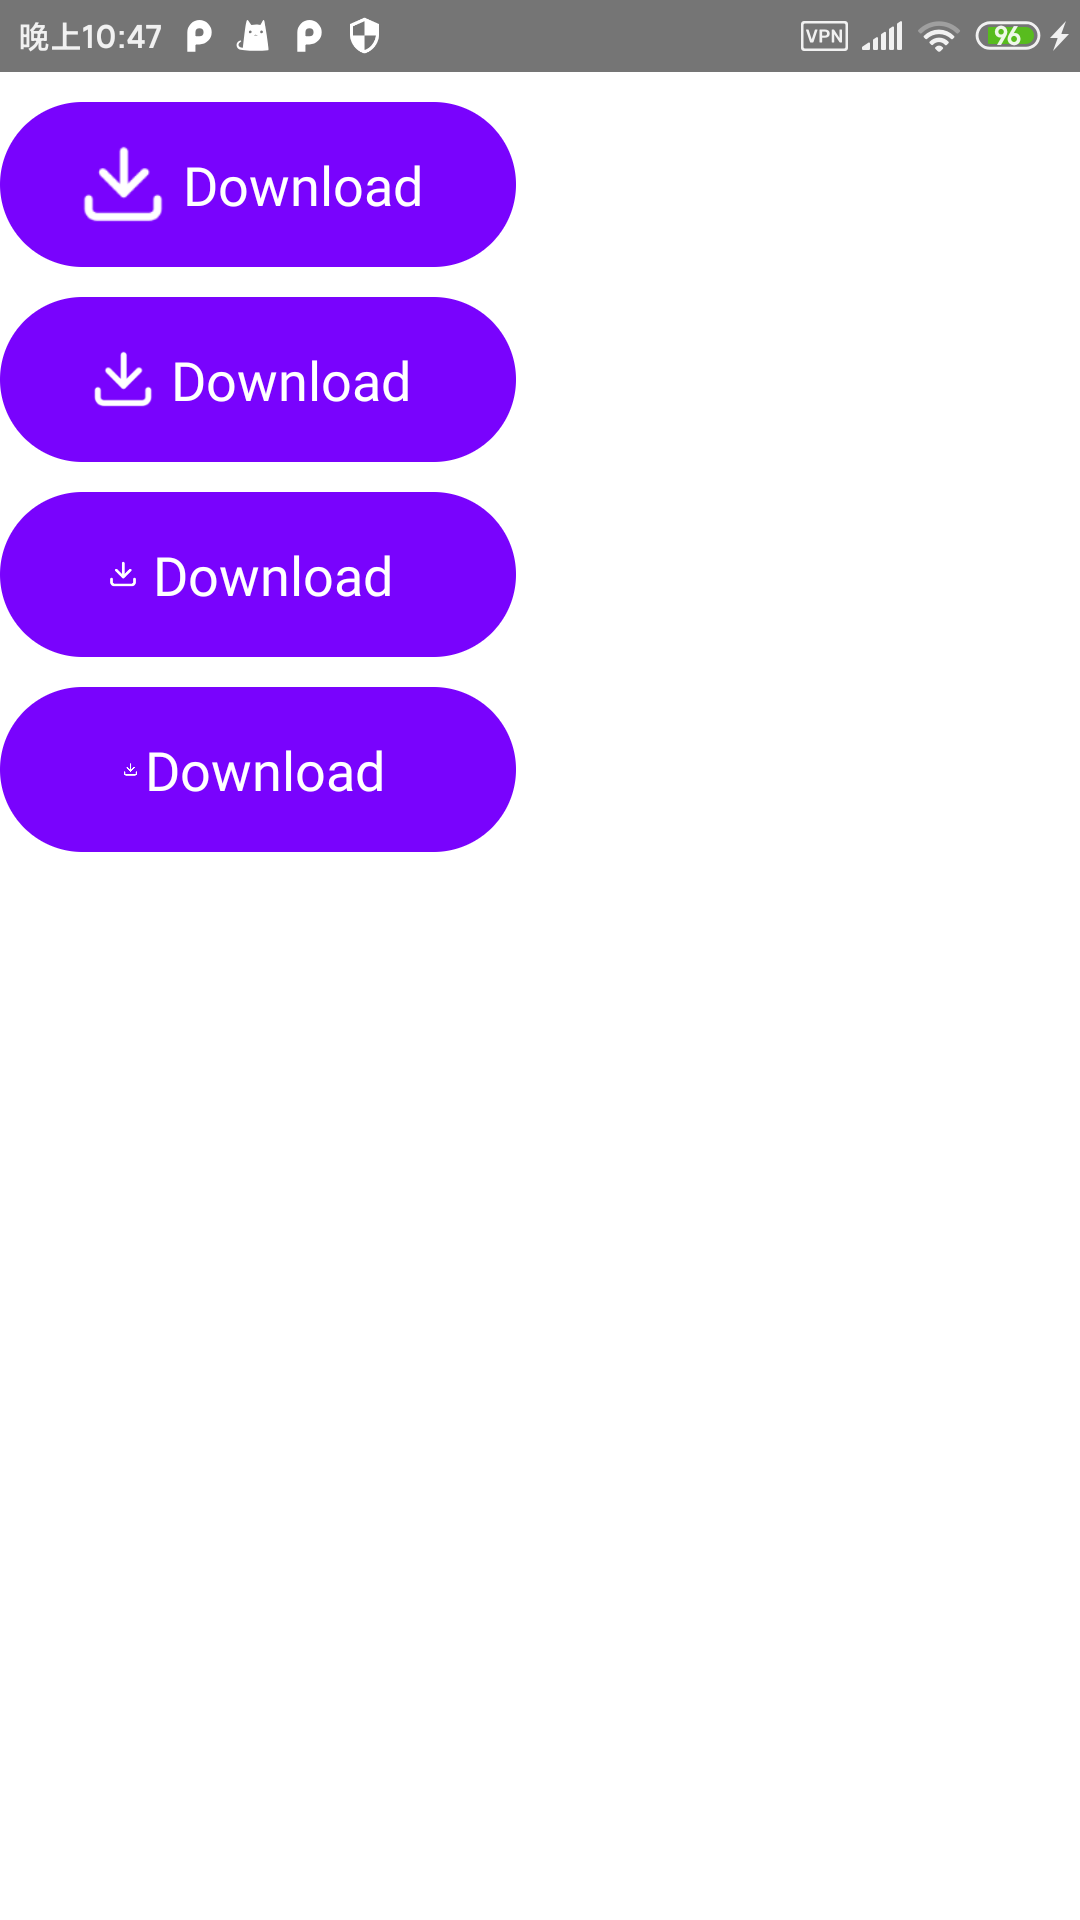
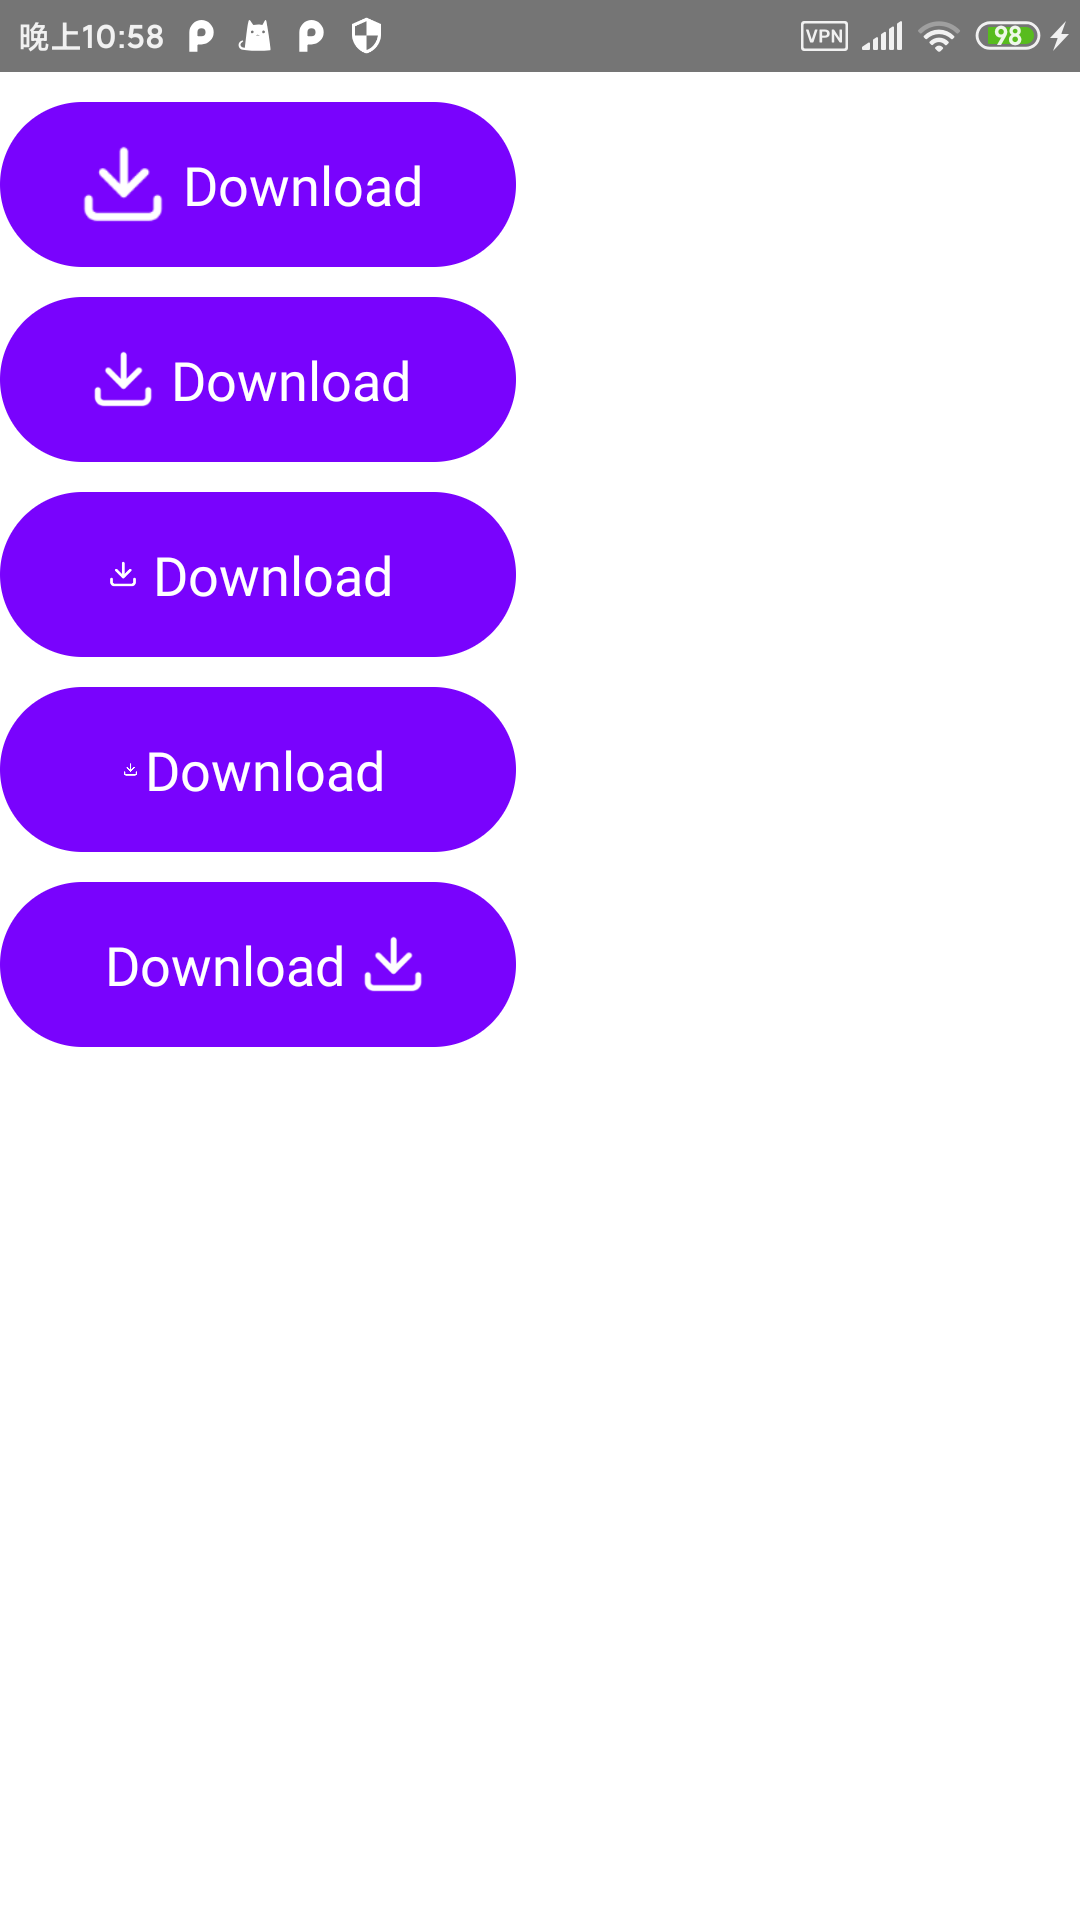
1、优化demo

diff --git a/buttonlibrary/src/main/java/com/gxx/buttonlibrary/DrawableCenterButton.java b/buttonlibrary/src/main/java/com/gxx/buttonlibrary/DrawableCenterButton.java
@@ -17,17 +17,17 @@ import androidx.appcompat.widget.AppCompatButton;
 /**
  * drawableRight与文本一起居中显示
  */
-public class DrawableLeftCenterButton extends AppCompatButton {
+public class DrawableCenterButton extends AppCompatButton {
     private int picDistance = 0;
     private int picWidth = 0;
     private int picHeight = 0;
 
-    public DrawableLeftCenterButton(Context context, AttributeSet attrs) {
+    public DrawableCenterButton(Context context, AttributeSet attrs) {
         super(context, attrs);
-        TypedArray ta = getContext().obtainStyledAttributes(attrs, R.styleable.DrawableLeftCenterButton);
-        picDistance = ta.getDimensionPixelOffset(R.styleable.DrawableLeftCenterButton_dl_dis,0);
-        picWidth = ta.getDimensionPixelOffset(R.styleable.DrawableLeftCenterButton_dl_width,0);
-        picHeight = ta.getDimensionPixelOffset(R.styleable.DrawableLeftCenterButton_dl_height,0);
+        TypedArray ta = getContext().obtainStyledAttributes(attrs, R.styleable.DrawableCenterButton);
+        picDistance = ta.getDimensionPixelOffset(R.styleable.DrawableCenterButton_dl_dis,0);
+        picWidth = ta.getDimensionPixelOffset(R.styleable.DrawableCenterButton_dl_width,0);
+        picHeight = ta.getDimensionPixelOffset(R.styleable.DrawableCenterButton_dl_height,0);
         ta.recycle();
     }
 
@@ -44,14 +44,18 @@ public class DrawableLeftCenterButton extends AppCompatButton {
         if (drawables == null) {
             return canvas;
         }
+        boolean isLeftDrawable = true;//是否左边的drawable
         Drawable drawable = drawables[0];// 左面的drawable
+
         if (drawable == null) {
             drawable = drawables[2];// 右面的drawable
+            isLeftDrawable = false;
         }
 
         if (drawable == null){
             return canvas;
         }
+
 
         boolean isNeedScan = true;
 
@@ -60,18 +64,20 @@ public class DrawableLeftCenterButton extends AppCompatButton {
             isNeedScan = false;
         }
 
-        Bitmap oldBitmap = drawableToBitmap(drawable);
         Bitmap bitmap = null;
         if (isNeedScan){
-            bitmap = createScaledBitmap(oldBitmap,picWidth,picHeight);
+            bitmap = createScaledBitmap(drawableToBitmap(drawable),picWidth,picHeight);
         }else {
             bitmap = ((BitmapDrawable) drawable).getBitmap();
         }
 
         Drawable newDrawable =  new BitmapDrawable(null, bitmap);
         newDrawable.setBounds(0,0,bitmap.getWidth(),bitmap.getHeight());
-
-        setCompoundDrawables(newDrawable,null,null,null);
+        if (isLeftDrawable){
+            setCompoundDrawables(newDrawable,null,null,null);
+        }else {
+            setCompoundDrawables(null,null,newDrawable,null);
+        }
 
         float textSize = getPaint().measureText(getText().toString());
         int drawWidth = bitmap.getWidth();
@@ -105,6 +111,7 @@ public class DrawableLeftCenterButton extends AppCompatButton {
         return scaledBitmap;
 
     }
+
 
     private Bitmap drawableToBitmap(Drawable drawable) {
         int width = drawable.getIntrinsicWidth();
